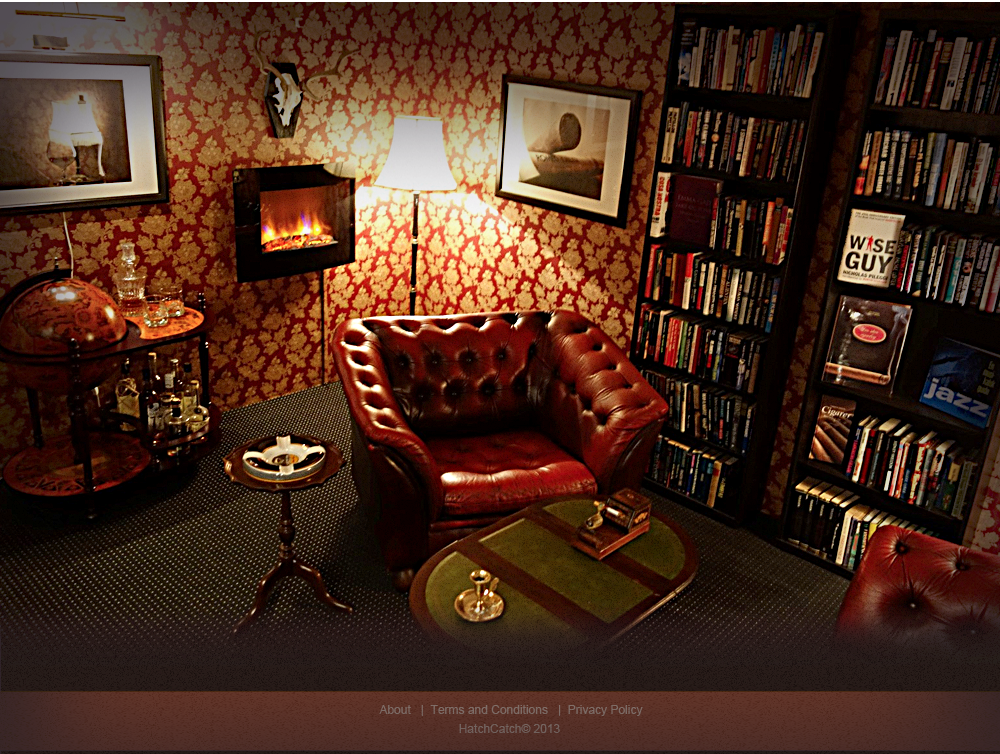
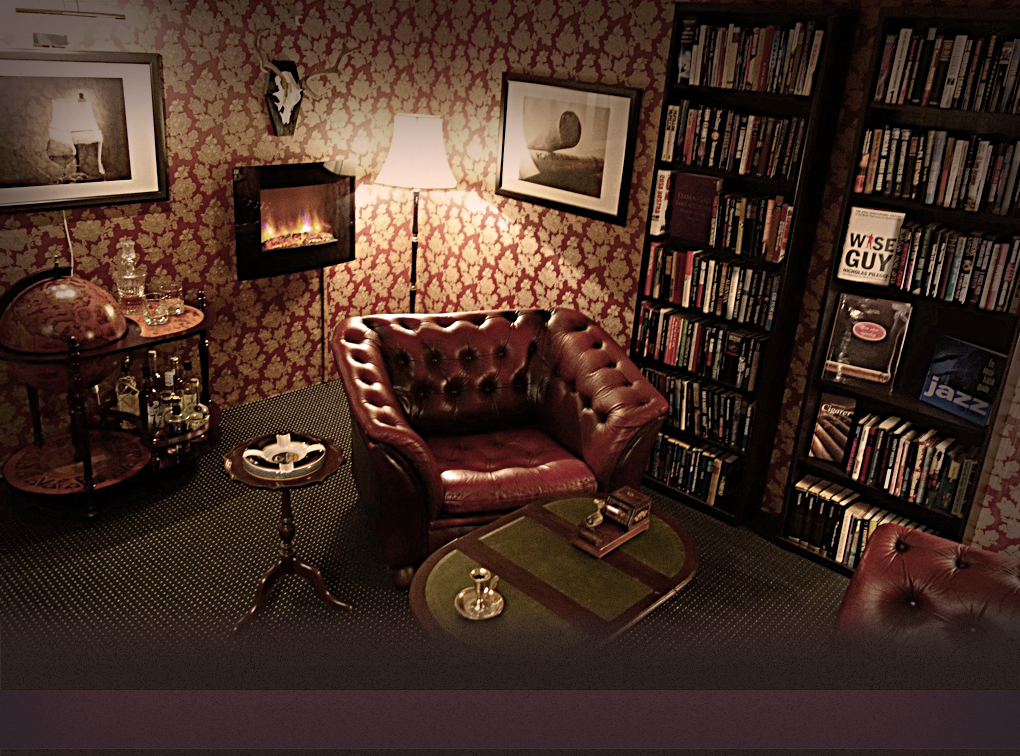
push update

diff --git a/public/css/style.css b/public/css/style.css
@@ -16,7 +16,7 @@ body.gender-page {
     background-image: url("/img/hc-theme/gender-bg.png");
     background-origin: padding-box;
     background-repeat: no-repeat;
-    background-size: 100% 110%;
+    background-size: 100% 100%;
 }
 body.chat-page {
 	  margin:0 0 0 0;
@@ -26,7 +26,7 @@ body.chat-page {
     background-image: url("/img/hc-theme/chat-bg.png");
     background-origin: padding-box;
     background-repeat: no-repeat;
-    background-size: 100% 110%;
+    background-size: 100% 100%;
 }
 .header-wrapper {
   background: url("/img/hc-theme/header-line.png") repeat-x scroll 0 -30px transparent;
